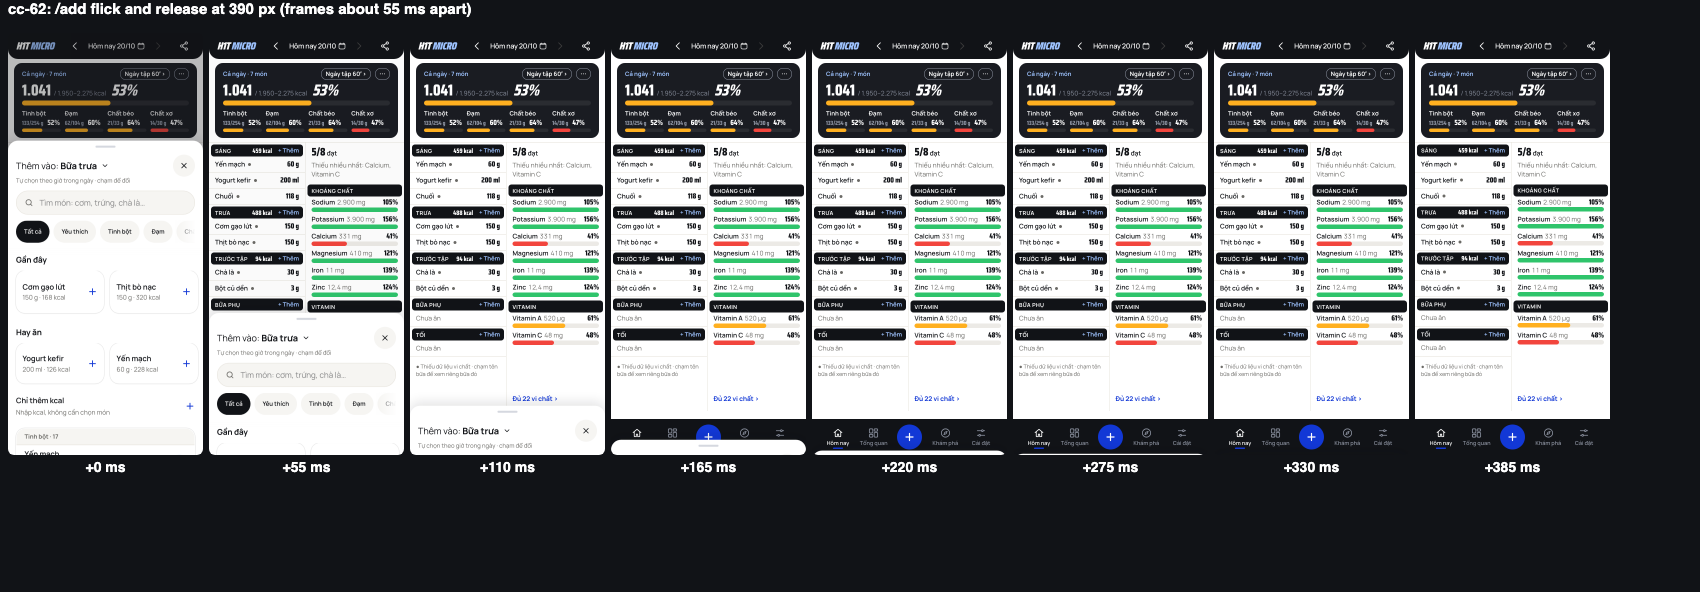
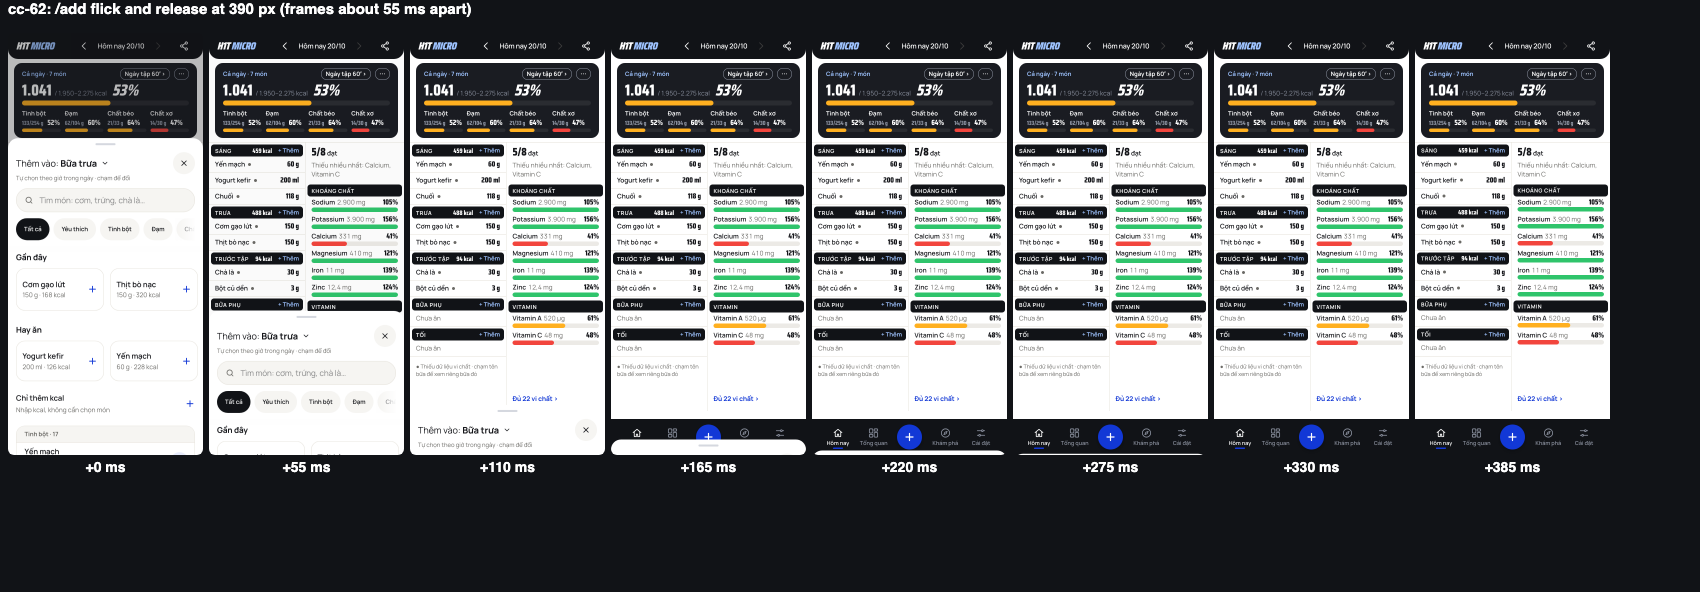
Header: the sync status no longer sits on the day arrows; cc_67_part3 no longer depends on the time of day
On a phone the Chua luu pill (or Ngoai tuyen) was drawn over the next-day arrow at 360, 390 and 430 wide.
The phone wordmark steps aside while the status has something to say, the date is at least 76 px wide,
and the offline text wraps. Probe part D checks today and yesterday, online and offline.

cc_67_part3 picked its meal from the clock and counted the demo day's own lunch row (Thit bo nac) as a
new row: it counts only rows that were not there before. Restores strip-flick.png.

diff --git a/apps/web/components/ui/app-header.tsx b/apps/web/components/ui/app-header.tsx
@@ -174,11 +174,13 @@ export function AppHeader({
           data-align-group={alignGroup}
           data-align-edge={alignMode === "left" ? "left" : undefined}
           data-align-from={alignMode === "page" ? "lg" : undefined}
-          className="flex min-h-11 items-center gap-2"
+          className="group/hdr flex min-h-11 items-center gap-2"
         >
           {back}
-          {/* The phone wordmark is a logo: it never shrinks or wraps; at large text sizes the date gives way instead */}
-          <div className={`min-w-0 flex-1 ${wordmark ? "max-lg:min-w-fit" : ""}`}>
+          {/* The phone wordmark is a logo: it never shrinks or wraps; at large text sizes the date gives way instead. While the sync status
+              has something to say (Chưa lưu, Ngoại tuyến) the row has no room for both on a phone: the logo steps aside, so the status
+              never lands on the day arrows (hotfix 20/10) */}
+          <div className={`min-w-0 flex-1 ${wordmark ? "max-lg:min-w-fit group-has-[[data-sync-state=unsaved],[data-sync-state=offline]]/hdr:max-lg:min-w-0 group-has-[[data-sync-state=unsaved],[data-sync-state=offline]]/hdr:max-lg:*:hidden" : ""}`}>
             {wordmark ? (
               <>
                 {phoneStart ? (
@@ -227,7 +229,7 @@ export function AppHeader({
                   aria-label={`Chọn ngày, ${dateLabel}`}
                   data-tour="day-date"
                   aria-busy={dateLabel ? undefined : true}
-                  className="inline-flex min-h-11 min-w-[104px] shrink items-center justify-center rounded-full border-0 bg-transparent px-1 text-center text-sm font-semibold leading-tight tracking-tight text-on-dark cursor-pointer hover:text-sky focus-visible:outline-sky active:scale-[0.97] transition-press motion-reduce:active:scale-100 lg:hidden"
+                  className="inline-flex min-h-11 min-w-[76px] shrink items-center justify-center rounded-full border-0 bg-transparent px-1 text-center text-sm font-semibold leading-tight tracking-tight text-on-dark cursor-pointer hover:text-sky focus-visible:outline-sky active:scale-[0.97] transition-press motion-reduce:active:scale-100 lg:hidden"
                 >
                   {dateLabel ? (
                     // cc-72: the calendar glyph says the date opens the calendar (the date stays the one control)
@@ -240,12 +242,12 @@ export function AppHeader({
                       </span>
                     </span>
                   ) : (
-                    <span aria-hidden="true" className="inline-block h-5 w-[104px]" />
+                    <span aria-hidden="true" className="inline-block h-5 w-[76px]" />
                   )}
                 </button>
               ) : (
-                <span className="inline-flex min-w-[104px] items-center justify-center text-center text-sm font-semibold tracking-tight lg:hidden">
-                  {dateLabel || <span aria-hidden="true" className="inline-block h-5 w-[104px]" />}
+                <span className="inline-flex min-w-[76px] items-center justify-center text-center text-sm font-semibold tracking-tight lg:hidden">
+                  {dateLabel || <span aria-hidden="true" className="inline-block h-5 w-[76px]" />}
                 </span>
               )}
               <button type="button" onClick={onNext} disabled={nextDisabled} aria-label="Ngày sau" data-testid="day-next" className={DATE_BUTTON}>

diff --git a/apps/web/components/sync/sync-status-detail.tsx b/apps/web/components/sync/sync-status-detail.tsx
@@ -23,7 +23,7 @@ export default function SyncStatusDetail({ state, unsaved, failed }: { state: st
   return (
     <>
       {state === "idle" ? null : state === "offline" ? (
-        <span className={text}>{unsaved > 0 ? `Ngoại tuyến · ${unsaved} chờ gửi` : "Ngoại tuyến"}</span>
+        <span className={`${text} max-lg:max-w-[96px] max-lg:text-right max-lg:leading-tight`}>{unsaved > 0 ? `Ngoại tuyến · ${unsaved} chờ gửi` : "Ngoại tuyến"}</span>
       ) : state === "saving" ? (
         <span className={text}>Đang lưu…</span>
       ) : state === "unsaved" ? (

diff --git a/apps/web/tests/probes/hotfix_late_writes.py b/apps/web/tests/probes/hotfix_late_writes.py
@@ -9,8 +9,10 @@ date rule (made_at within 14 days, else 409 PAST_DAY_READ_ONLY; without made_at 
      "Còn 2 món chưa lưu được, xem lý do"); Chuyển sang hôm nay sends it for today under the same id; Bỏ món này asks first, then takes it off
   C  Đăng xuất with an item that cannot be sent: Đồng bộ rồi đăng xuất says how many are left and why, and offers Xem các món and
      Vẫn đăng xuất (mất N món) (it does not just stop)
+  D  the sync status in the header (the Chưa lưu pill, or Ngoại tuyến · n chờ gửi offline) never shares its box with the day arrows or the
+     date, today and yesterday, at 360, 390 and 430 wide; five points across the pill all hit it, and the › arrow stays tappable
 Run with: LIVE_BUILD=1 ALIGN_BASE_URL=http://localhost:3112 npm run probe -- tests/probes/hotfix_late_writes.py
-Pick parts with HLW_ONLY=A,B
+Pick parts with HLW_ONLY=A,B,C,D
 """
 # PROBE_COVERS: app/(app)/(tabs)/app/** app/(app)/settings/account/**
 import base64
@@ -335,6 +337,58 @@ with sync_playwright() as p:
         pg.wait_for_selector("[data-sync-list]", timeout=10000)
         check(pg.locator("[data-sync-list]").inner_text().count("ngày đã khóa") == 1, "C: Xem các món opens the list with the reason")
         ctx.close()
+
+    if want("D"):
+        yesterday = (NOW_VN - timedelta(days=1)).strftime("%Y-%m-%d")
+        js = """() => {
+          const status = document.querySelector('[data-tour="sync-status"]');
+          const pill = [...document.querySelectorAll('button')].find((b) => /Chưa lưu/.test(b.getAttribute('aria-label') || ''));
+          if (!status || status.getBoundingClientRect().width === 0) return null;
+          const sr = status.getBoundingClientRect();
+          let hits = [];
+          if (pill) { const pr = pill.getBoundingClientRect(); hits = [0.03, 0.25, 0.5, 0.75, 0.97].map((f) => { const el = document.elementFromPoint(pr.left + pr.width * f, pr.top + pr.height / 2); return !!el && (el === pill || pill.contains(el)); }); }
+          const others = [...document.querySelectorAll('header button, header a')].filter((b) => !status.contains(b) && b.getBoundingClientRect().width > 0);
+          const overlap = others.filter((b) => { const r = b.getBoundingClientRect(); return r.left < sr.right && r.right > sr.left && r.top < sr.bottom && r.bottom > sr.top; }).map((b) => b.getAttribute('aria-label') || b.textContent.trim());
+          const next = document.querySelector('[aria-label="Ngày sau"]');
+          const nr = next ? next.getBoundingClientRect() : null;
+          const nextTap = nr && !next.disabled ? (() => { const el = document.elementFromPoint(nr.left + nr.width / 2, nr.top + nr.height / 2); return !!el && (el === next || next.contains(el)); })() : null;
+          const cover = nr && !next.disabled ? (() => { const el = document.elementFromPoint(nr.left + nr.width / 2, nr.top + nr.height / 2); return el && el !== next && !next.contains(el) ? el.outerHTML.slice(0, 120) : null; })() : null;
+          return { hits, overlap, nextTap, cover, offline: !pill, scrollW: document.documentElement.scrollWidth, width: window.innerWidth };
+        }"""
+        for width, net in [(w, n) for w in (360, 390, 430) for n in ("online", "offline")]:
+            for label, day in (("today", None), ("yesterday", yesterday)):
+                api = FakeApi()
+                ctx = browser.new_context(viewport={"width": width, "height": 844})
+                ctx.add_init_script(f"try {{ localStorage.setItem('h1t_auth_current_email', '{EMAIL}'); }} catch (e) {{}}")
+                user, cookie = supabase_session(EMAIL)
+                ctx.add_cookies([{"name": "sb-probe68-auth-token", "value": cookie, "url": BASE}])
+                ctx.route(SUPABASE + "/**", lambda route: route.fulfill(status=200, content_type="application/json", body="{}"))
+                ctx.route(SUPABASE + "/auth/v1/user", lambda route, user=user: route.fulfill(status=200, content_type="application/json", body=json.dumps(user)))
+                ctx.route("**/api/v1/**", api.handler())
+                ctx.route(BASE + "/auth/session", lambda route: route.fulfill(status=204, body=""))
+                pg = ctx.new_page()
+                open_home(pg)
+                seed(pg, [item(1, TWENTY_BACK, 20), item(2, TWENTY_BACK, 20)])
+                pg.goto(BASE + "/app" + (f"?date={day}" if day else ""), wait_until="domcontentloaded")
+                pg.locator('[data-align-group="home-page"]').first.wait_for(state="visible", timeout=20000)
+                pg.wait_for_timeout(2500)
+                close_tips(pg)
+                if net == "offline":
+                    ctx.set_offline(True)
+                    pg.evaluate("window.dispatchEvent(new Event('offline'))")
+                    pg.wait_for_timeout(600)
+                close_tips(pg)  # the sync tip that a status first shown can raise
+                got = pg.evaluate(js)
+                where = f"{width} {label} {net}"
+                check(got is not None and all(got["hits"]), f"D: {where}: every tap point on the Chưa lưu pill reaches it ({got})")
+                check(got is not None and got["overlap"] == [], f"D: {where}: no other control shares the status's box ({got and got['overlap']})")
+                check(got is not None and got["nextTap"] is not False and got["scrollW"] <= got["width"], f"D: {where}: the › arrow takes its own taps, and the header does not scroll sideways")
+                if width == 390 and label == "yesterday" and net == "online":
+                    pg.get_by_role("button", name=re.compile(r"^Chưa lưu 2")).locator("visible=true").first.click(position={"x": 6, "y": 20})
+                    pg.wait_for_selector("[data-sync-list]", timeout=10000)
+                    check(True, "D: a tap on the left edge of the pill opens the list")
+                    pg.screenshot(path=str(SHOTS / "D-yesterday-390.png"))
+                ctx.close()
 
     browser.close()
 

diff --git a/apps/web/tests/probes/cc_67_part3.py b/apps/web/tests/probes/cc_67_part3.py
@@ -145,7 +145,8 @@ def main():
         meal = re.sub(r"^Thêm vào ", "", pg.locator('[data-tour="portion-add"]:visible').first.inner_text().strip())
         pg.goto(BASE + "/app", wait_until="networkidle")
         pg.wait_for_timeout(800)
-        kcal_before = kcal_of(squash(pg.locator(f"section[aria-label='{meal}'] >> visible=true").first.inner_text())) or 0
+        text_before = squash(pg.locator(f"section[aria-label='{meal}'] >> visible=true").first.inner_text())
+        kcal_before = kcal_of(text_before) or 0
         panel, section = open_dish(pg)
         for _ in range(5):
             section.get_by_role("button", name="Giảm 10 g Bánh phở (tươi)").tap()
@@ -158,7 +159,8 @@ def main():
         pg.wait_for_timeout(1000)
         text = squash(pg.locator(f"section[aria-label='{meal}'] >> visible=true").first.inner_text())
         check(text.count("Phở bò") == 1 and "Phở bò · đã chỉnh" in text, f"{meal}: one row, Phở bò · đã chỉnh ({text[:200]!r})")
-        check("Bánh phở" not in text and "Thịt bò" not in text, "no separate Bánh phở or Thịt bò row")
+        # The demo day's own rows are in the meal too (at lunchtime it holds "Thịt bò nạc"): only rows that were not there before count
+        check("Bánh phở" not in text and text.count("Thịt bò") == text_before.count("Thịt bò"), "no separate Bánh phở or Thịt bò row")
         check((kcal_of(text) or 0) - kcal_before == kcal_card, f"the meal gained the card's {kcal_card} kcal ({kcal_before} → {kcal_of(text)})")
         pg.screenshot(path=str(SHOTS / "phobo-edited-row.png"))
         # The edited dish is in no list

diff --git a/PROGRESS.md b/PROGRESS.md
@@ -3,6 +3,7 @@
 ## Now working
 | Task | Owner | Files / routes |
 |---|---|---|
+| 20/10/2026 | fix/probe-67-pill-overlap (off main 7967c76, worktree nutrition-fk-main-fix) | Header: on a phone the Chưa lưu pill (or Ngoại tuyến · n chờ gửi) sat on top of the › day arrow at 360, 390 and 430 wide, so the arrow could not be tapped (cc-72 made the wordmark never shrink). While the sync status has something to say the wordmark steps aside, the date is 76 px wide at least (was 104), and the offline text wraps; probe part D of hotfix_late_writes.py checks it (today and yesterday, 360/390/430, online and offline). cc_67_part3 failed at lunchtime on every commit since cc-67 (it picks the default meal from the clock, and the demo day's lunch holds Thịt bò nạc): its check now counts only rows that were not there before; passes at 07:30, 15:30, 19:30 and 11:40. Also restores docs/screenshots/cc-62/strip-flick.png, which a gate run had overwritten in PR #21. |
 | 20/10/2026 | hotfix-late-writes (hotfix/late-writes off origin/main fc24b09, worktree nutrition-fk-late-writes) | Hotfix for Hao, with a change in apps/api/internal/diary that Hao asked for (Dong's lane; the PR note is for Dong). A write is judged by when the user made it: the API accepts an optional `made_at` (RFC 3339) on diary writes and judges the day by it (made_at's HCM day minus 1; refused when older than 14 days or more than 5 minutes ahead; without it today and yesterday, as before). The web sends the outbox item's createdAt as `made_at` on every send and retry (sw.js too, VERSION 2026-10-20.3), moves held FINAL 409 items back to queued once per app version, Thử lại sends everything in the list and always says what happened, the Chưa lưu list shows day, food and a plain reason with Chuyển sang hôm nay and Bỏ món này, and Đồng bộ rồi đăng xuất shows progress and, on failure, how many are left and why. No release note: 2026-10-20b is pinned to three items (Hao). Probe tests/probes/hotfix_late_writes.py (live build). Claim released at merge; Hao deploys. |
 | 20/10/2026 | Overnight run 20/10: gates, cc-65, cc-62, cc-66, cc-64, cc-72, probes cc_26/cc_44, API hardening (feat/overnight-1020 off origin/main 0d232ad, worktree nutrition-fk-overnight-1020, port 3101; PR #20 https://github.com/DongDuong2001/nutrition-fortifykitchen/pull/20, not merged; summary in docs/overnight-2026-10-20.md) | Claude Code. apps/web (gates, tests, sheets, design tokens and class codemods, motion, releases) and apps/api (Part 8, Go only, for Dong). |
 | 19/10/2026 | cc-70 touch drag: hold a food, then drag it to another meal (feat/ui-cc-70 off origin/main d1875a7, worktree nutrition-fk-cc70, port 3101) | Claude Code. PR into main for Dong (not merged); rebase on main once PR 18 (cc-71) merges. lib/use-touch-drag.ts, components/home/food-list.tsx, pull-refresh.tsx, home-screen.tsx (touchDrag prop only), app/globals.css (m-drag-*), tests/probes/cc_70_touch_drag.py. Its release note comes later, not in 19a/19b. |
